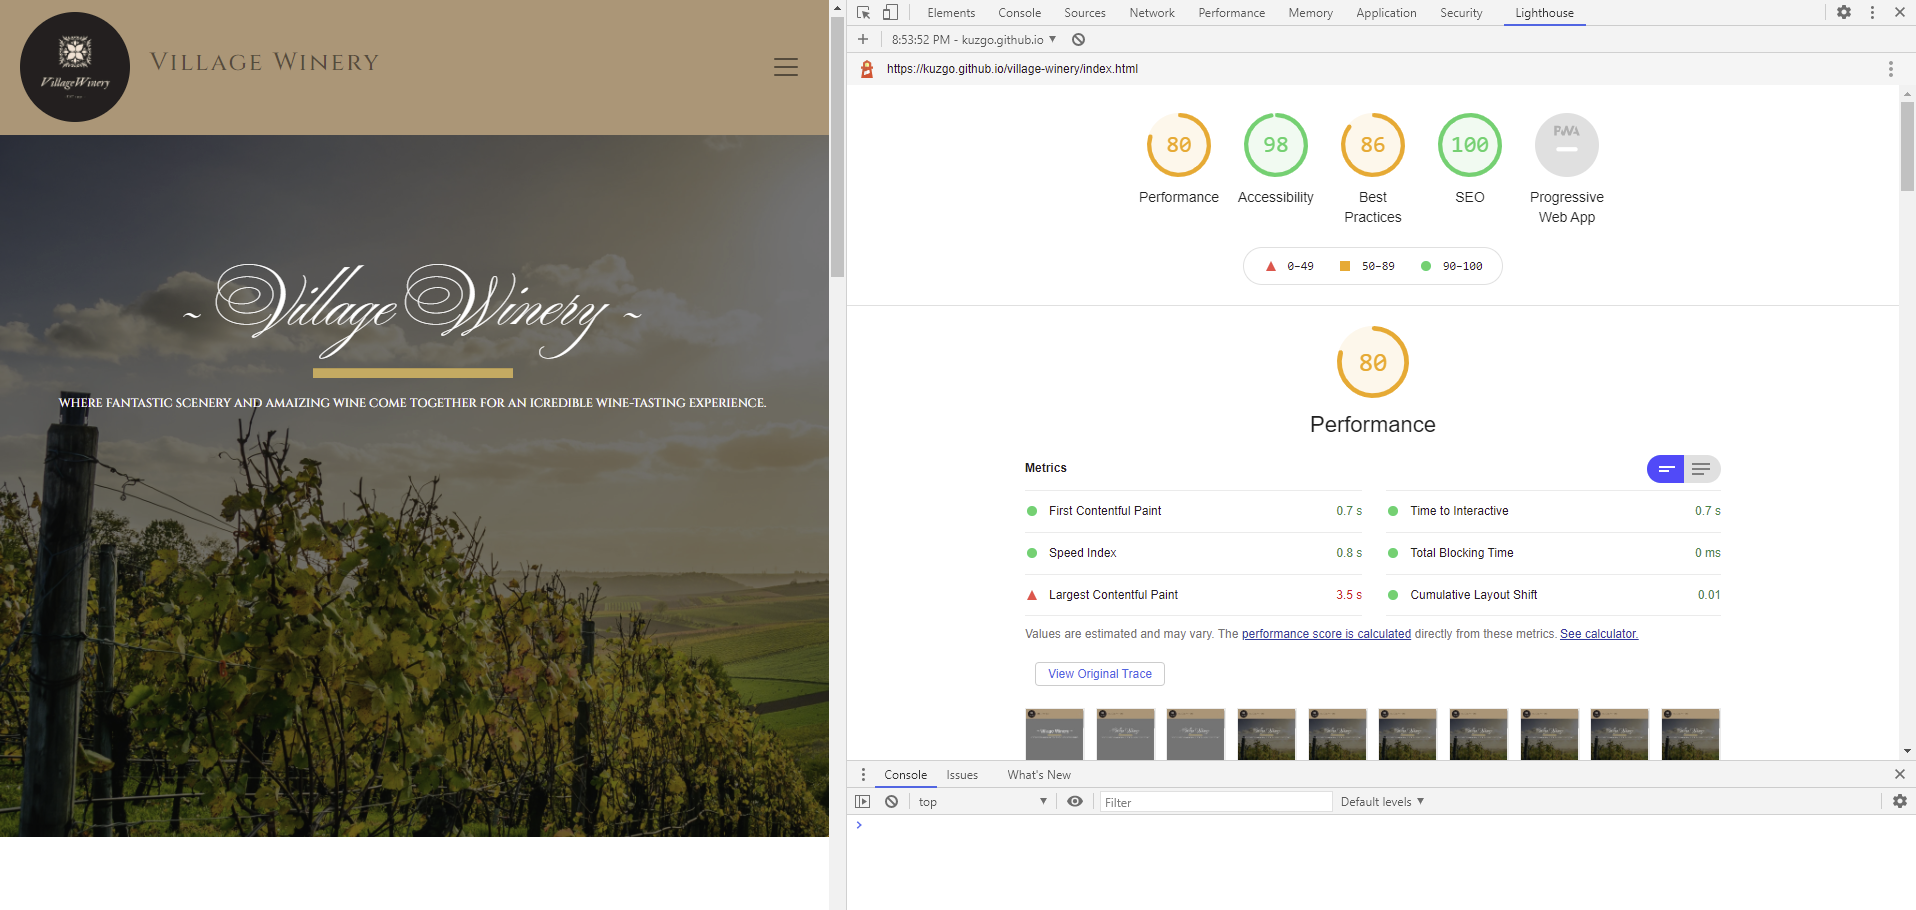
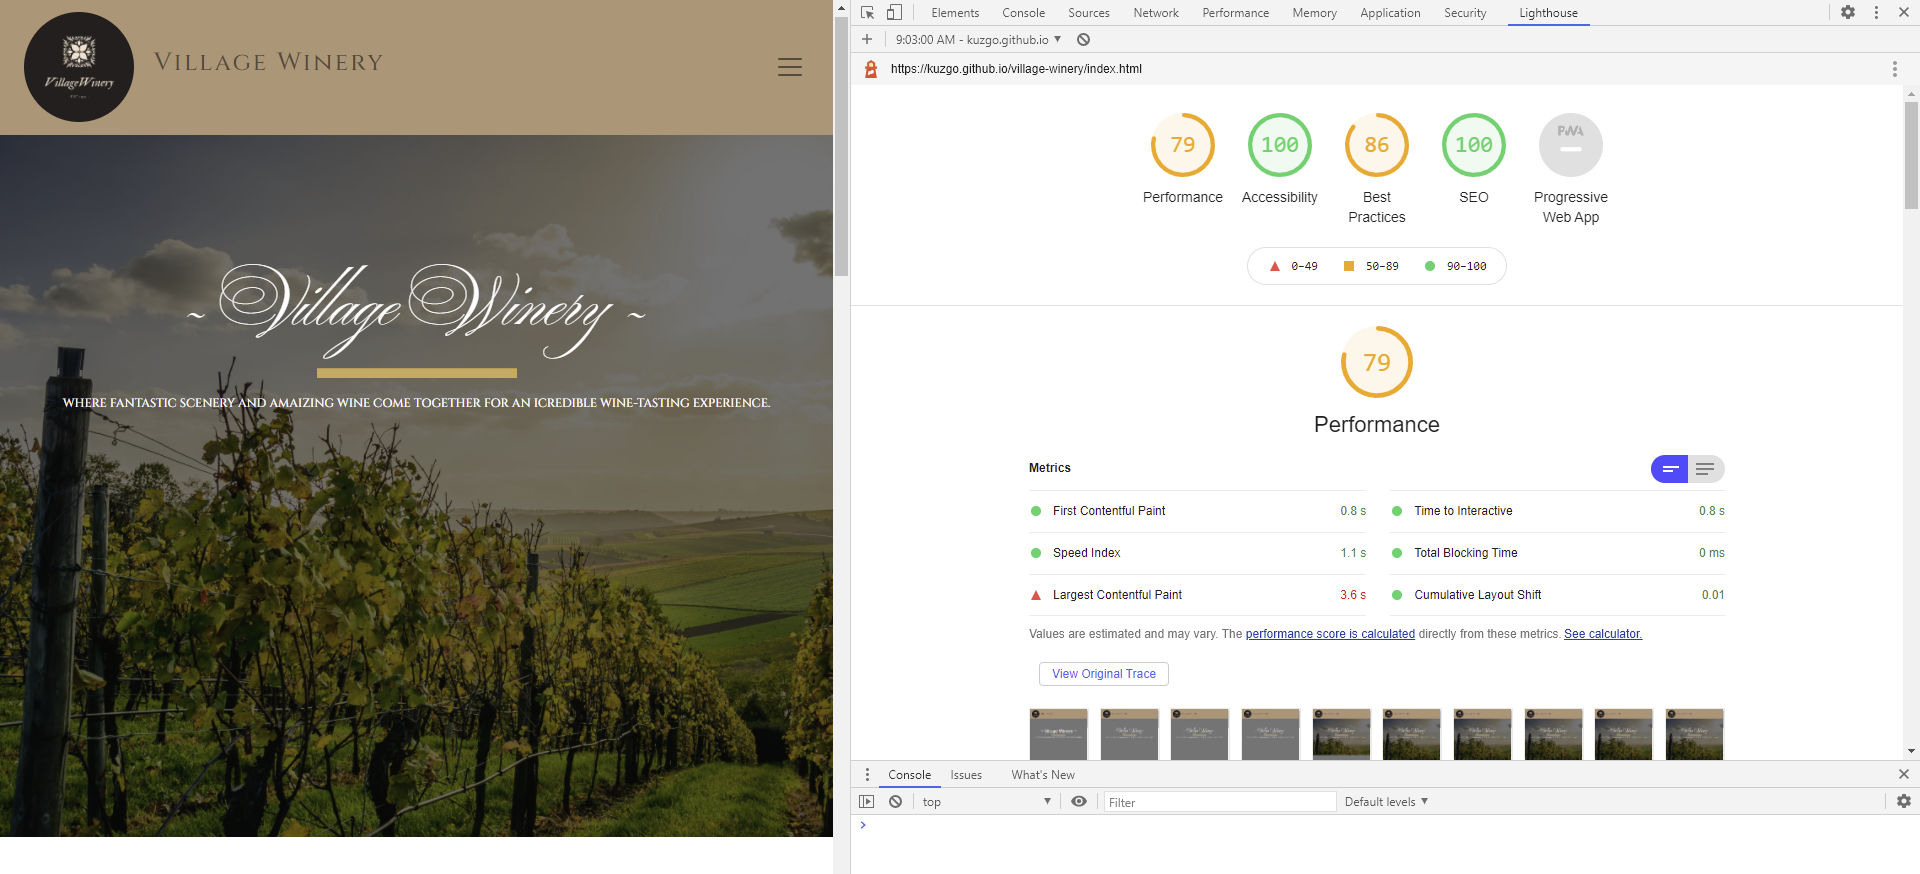
Final fixes and add TESTING.md
* Add separate TESTING.md to comply with project's requirements

* Implement TESTING.md and add more content

diff --git a/assets/css/style.css b/assets/css/style.css
@@ -1,12 +1,20 @@
 :root {
     --nav-link--color: #040101;
+    --nav-link--text-color:#f9f8f5;
+    --nav-link--border-color:#d2a659;
+    --navbar-active-color:rgba(0,0,0,0.3);
+    --hero-container-color:rgba(11, 11, 11, 0.57);
     --summer-house-border-color:#333030;
     --navbar-toggler--backround--color:#b59474;
     --story-section--backround--color:#f9f8f5;
     --navbar-toggler-icon--color:#333030;
     --reviews-section--background-color:#d2a659;
     --icon--color:#332F36;
+    --media-links--color:#b59474;
+    --wine-buttons--color:#343a40;
+    --form-contorl--color:rgba(20, 19, 19, 0.7);
     --hero-header-color: #fff;
+    --red-heart--color: red;
 }
 
 body {
@@ -35,20 +43,20 @@ body {
 
 .navbar-light .navbar-nav .nav-link:hover,
 .navbar-light .navbar-nav .nav-link:focus {
-    color: #f9f8f5;
-    border: #d2a659;
+    color: var(--nav-link--text-color);
+    border: var(--nav-link--border-color);
     border-style: solid;
     border-radius: 5px;
 }
 .navbar-light .navbar-nav .nav-link:active {
-    color: #f9f8f5;
-    border: #d2a659;
+    color: var(--nav-link--text-color);
+    border: var(--nav-link--border-color);
     border-style: solid;
     border-radius: 5px;
-    background-color: rgba(0,0,0,0.3);
+    background-color: var(--navbar-active-color);
 }
 .navbar-light .navbar-nav .nav-link.active {
-    background-color:rgba(0,0,0,0.3);
+    background-color: var(--navbar-active-color);
 }
 .container-fluid { 
     overflow: hidden;
@@ -80,7 +88,7 @@ body {
     background-color: var(--navbar-toggler--backround--color);
 }
 a.nav-link.current-page {
-    text-decoration: underline 5px solid #d2a659;
+    text-decoration: underline 5px solid var(--nav-link--border-color);
 }
 
 /* -------------------------------------  Hero Image*/
@@ -102,7 +110,7 @@ a.nav-link.current-page {
     background-color: var(--reviews-section--background-color);
 }
 .hero-container {
-    background-color:rgba(11, 11, 11, 0.57);
+    background-color: var(--hero-container-color);
     height: 90vh;
     display: block;
     position: relative;
@@ -143,7 +151,7 @@ h5 {
     font-size: 18px;
     font-family: "Lato",sans-serif;
     text-align: center;
-    color: #333030;
+    color: var(--summer-house-border-color);
     white-space: normal;
     margin-left: 25px;
     margin-right: 25px;
@@ -164,10 +172,10 @@ h5 {
     padding: 40px 30px;
 }
 .story-link {
-    color: #332F36;
+    color: var(--icon--color);
 }
 a:hover {
-    color: #332F36;
+    color: var(--icon--color);
 }
 /* -------------------------------------  Reviews section */
 .reviews-section {
@@ -229,7 +237,7 @@ a:hover {
     bottom: 20px;
     left:20%;
     border-radius: 23px;
-    background-color: #343a40;
+    background-color: var(--wine-buttons--color);
     color: var(--story-section--backround--color);
     border: solid transparent;
 }
@@ -238,7 +246,7 @@ a:hover {
 .btn-outline-secondary:focus,
 .btn-outline-secondary:active {
     color: var(--story-section--backround--color);
-    border: #d2a659;
+    border: var(--nav-link--border-color);
     border-style: solid;
     border-radius: 23px;
 }
@@ -263,7 +271,7 @@ a:hover {
     text-align: center;
 }
 .form-control {
-    background-color:rgba(20, 19, 19, 0.7);
+    background-color: var(--form-contorl--color);
     color: var(--story-section--backround--color);
 }
 .contact-label {
@@ -285,7 +293,7 @@ a:hover {
     height: 9px;
 }
 .form-cover {
-    background-color: rgba(0,0,0,0.3);
+    background-color: var(--navbar-active-color);
     width: 100%;
     height: 100%;
 }
@@ -296,8 +304,8 @@ a:hover {
 }
 
 .btn-dark:hover {
-    color: #f9f8f5;
-    border: #d2a659;
+    color: var(--nav-link--text-color);
+    border: var(--nav-link--border-color);
     border-style: solid;
     border-radius: 5px;
     text-decoration: none;
@@ -321,8 +329,8 @@ a:hover {
     animation-duration: 1s;
     animation-fill-mode: forwards;
     overflow: hidden;
-    
 }
+/* Inspiration for this code I received from the Code institute project Love Running */
 @keyframes zoom-image {
     from { transform: scale(1);
 
@@ -353,17 +361,17 @@ a:hover {
  
  /* --------------------------------------------------Footer */
 footer {
-    background-color: #332F36;
-    color:#f9f8f5;
+    background-color: var(--icon--color);
+    color: var(--nav-link--text-color);
     text-align: center; 
 }
 .media-links .list-inline-item a {
-    color: #b59474;
+    color: var(--media-links--color);
     text-decoration: none;
 }
 .media-links .list-inline-item a:hover {
-    color: #f9f8f5;
-    border: #d2a659;
+    color: var(--nav-link--text-color);
+    border: var(--nav-link--border-color);
     width: 15px;
     height: 15px;
     text-decoration: none;
@@ -378,11 +386,11 @@ footer {
     margin: 0 20px;
 }
 .heart-red:hover{
-    color: red;
-    text-shadow: 0 0 15px red;
+    color: var(--red-heart--color);
+    text-shadow: 0 0 15px var(--red-heart--color);
 }
-/* This code removes margin between social media icons and
-makes summer house image smaller- issue with Galaxy Fold or simillar*/
+/* These codes remove margin between social media icons and
+makes summer house image smaller,decrease hero container padding - issue with Galaxy Fold or simillar*/
 @media screen and (max-width:280px) {
 .media-icon {
     width: 36px;

diff --git a/assets/TESTING.md b/assets/TESTING.md
@@ -1,0 +1,115 @@
+## Testing &  debugging:
+
+Pre-deployment testing:
+
+At the early stage of my project for testing the website I used Mozilla and Google Chrome DevTools to test responsiveness, accessibility and any potential bugs on different
+device models and screen sizes.
+The issues I encountered during different stages of my project are:
+1. Navbar text color contrast issue. While I personally liked more color used for text, to increase accessibility I decided to change color to #040101,
+which has contrast ratio 7.38, AA 4.5 ,AAA 7.0 making the website more accessible for diverse needs of users.
+
+2. Contact form would not display correctly in the landscape mode. As I had contact form wrapped with a `jumbotron`, which had a background image specified to cover 100vh.
+This pushed the contact form to the bottom making some parts of form invisible/covered by the footer. Removing 100vh fixed the issue.
+<p><img src="assets/docs/form.PNG" style="min-width:100%" height="400" alt="Form in landscape"></p>
+
+3. Order online buttons were not correctly positioned. After adding different paragraphs of text to wines.html section, it moved all buttons underneath the text to
+ different levels of the screen. To fix this issue I had to use position: absolute in CSS which displayed buttons as expected on large and medium screens but created an issue with small sizes 
+ screens. Additional fix was to add some bottom margin to paragraphs which provided some breathing space between buttons and text.
+4. In the `navbar`, the company title next to the company logo would not render properly with small screen sizes. As this would push navbar links to the right,
+   cutting off some of the links. I decided to hide the company title for small devices. At later stage of testing I noticed that this would not work in the landscape mode on some small 
+   size screens (Moto 4G) and refactored the code to hide title with small screen sizes and display as a block using Bootstrap's code .d-none .d-md-inline .d-xs-none,
+   this resolved the issue.
+5. One of the first Lighthouse reports was showing lower performance, best practices and SEO. Based on that report I refactored the code to add `meta` keywords and description to increase 
+   SEO and also `aria-*` attributes to make better user experience for users of screen readers and other assistive technologies.
+6. I conducted numerous tests of both HTML and  CSS code using [The W3C CSS Validation Service - Jigsaw](https://jigsaw.w3.org/css-validator/) and [The W3C Markup Validation Service validator](https://validator.w3.org/)
+   during various different stages of my project to ensure that codes are valid. Most of the times my reports were with a few minor errors and warnings which could have been easily fixed.
+
+    <p><img src="assets/docs/form.PNG" style="min-width:100%" height="400" alt="Form in landscape"></p>
+
+   The warnings displayed are due to Jigsaw's inability to validate/recognise certain CSS methods.
+
+    <p> <img src="assets/docs/css-warnings.PNG" style="min-width:100%" height="500" alt="CSS Warnings"></p>
+    <p> <img src="assets/docs/css-validator.PNG" style="min-width:100%" height="200" alt="CSS No error"></p>
+    
+    
+Post-deployment testing:
+
+
+1. One of the first issues encountered during testing of the deployed website was that images in the gallery and contact form hero image would not display at all.
+ Using Mozilla and Google DevTools I found that the error was in the absolute file path. 
+ After changing file paths to relative instead of absolute all images in question were rendered as expected. 
+
+2. The entire image gallery would display photographs slightly moved to the right side of the screen.This issue was resolved by adding margin shorthand to the .gallery-image class.
+
+3. The website has been tested for responsiveness using [Am I Responsive](http://ami.responsivedesign.is/).
+ 
+4. One of the post-deployment issues brought to my attention was that once hovered over the navigation bar and buttons it would push the other content due to the border appearing around links and buttons. 
+ To fix this I researched Google and came across a solution on [Stackoverflow](https://stackoverflow.com/questions/18887058/css-hover-creating-border-but-pushing-content).
+5. Lighthouse reports ran for both mobile and desktops:
+
+Lighthouse mobile devices report:
+
+<p> <img src="assets/docs/lighthouse-mobile.PNG" style="min-width:100%" height="400" alt="Lighthouse mobile device report"></p>
+
+Lighthouse desktop devices report:
+
+<p> <img src="assets/docs/lighthouse-desktop.PNG" style="min-width:100%" height="400" alt="Lighthouse desktop device report"></p>
+
+6. Deployed website has been tested across many different devices where a few errors have been found and corrected. 
+
+    * Our Wines page misalignment has been fixed by making images more responsive and correcting `margin` and `padding`.
+    * Home page's hero image did not have any information for users once they landed on the home page. To increase UX I have added an inviting company title with a small paragraph of text 
+        explaining to potential clients what is the business of the website owner.
+    * Contact form did not have an address and contact details such as email address and phone number.This has been added along with the location map.
+    * Contact form button contrast corrected by changing the button color.
+
+## User stories testing:
+
+ * User 1 : As a wine lover I want to find a place where I can taste quality wine.
+    * While browsing the internet in search of places producing quality wines I found Village Winery.
+    I was able to see their products, previous customers reviews and photographs of the winery.
+    I decided to contact the owner and book a wine-tasting tour.
+
+* User 2 : As a user I want to be able to contact the owner and book a tour.
+    * I was able to easily navigate through the website and find contact details.
+    As the location of the winery was interesting to me I contacted the owner using the contact form provided on the website to book a tour.
+
+* User 3 : As a wine collectionner I want to be able to order a bottle of wine from different parts of the world.
+    * I was able to review the products and their descriptions. 
+    In my collection I missed a bottle of wine from the country of Village Winery's origin so I decided to order a bottle of wine online using the option provided on their website.
+
+* User 4 : As a user I want to navigate the site easily to find products and services.
+    * I was able to navigate through the entire website easily and use the navigation bar to bring me to the different website pages.
+     Every time I wanted to go back to the home page I could click the company logo which will bring me back there. 
+     I checked the company's social media platforms to get a better understanding of their business.
+
+* User 5 : As a business owner I want to easily contact potential wine suppliers.
+    * As a business owner I own a restaurant and was in search of the best quality wine suppliers. I reviewed the Village Winery website and their wine, their tradition and the way they produce quality wines.
+     I have decided to contact the owner for further cooperation. I followed them on their social media sites to keep track of any updates.
+
+## Functionality testing
+
+As part of functionality testing the developer tested every part of the website to ensure that everything is working properly on different types of devices and screen sizes: 
+### Navigation bar:
+1. Once hovered over navigation bar links,the border will appear and the text will change color around the Home, Our Wines, Gallery and Contact Us links.
+2. When the page is selected it would be clearly indicated to the user by underlining the currently visited page. 
+3. Once clicked on the company logo regardless of the current user's location on the website it would bring the user back to the home page.
+### Google Map:
+1. Location of the winery is shown to the users and will always display the full width of the screen. 
+2. If the user would need to view the larger map it will be open in a separate tab.
+### Social media links:
+1. Hovering over social media links would change the color of the icons. 
+2. Clicking on the social media icon will open the social media page in a separate browser tab.
+### Our Wines:
+1. The images of the products are displayed without any background to create a blending effect. 
+2. The price of each product is highlighted with a different colour. Order online buttons have a shopping basket icon added to indicate product purchase. 
+3. Hover over the buttons would change the buttons background colour and will add border to follow consistency of the website.
+### Gallery:
+1. All images are displayed in various sizes with a shadow behind each image .
+2. Along with the hover effect when the image is slightly zoomed in, the idea was to create the floating image effect.   
+### Contact us :
+1. Send button hover effect will change the background colour and will add border to follow consistency of the website.
+2. Clicking the Send button  without adding the user's __Email__ address will display a warning sign advising users it is required to fill before hitting the button. 
+3. Clicking the Send button  without adding the user's __Name__ will display a warning sign advising users it is required to fill before hitting the button. 
+4. Email and telephone icons would not be visible on small screen devices such as mobile phones.
+5. Google map would work as per previous test.

diff --git a/README.md b/README.md
@@ -68,15 +68,17 @@ create a positive user experiences.
 <p> <img src="assets/docs/colors.PNG" style="min-width:100%" height="200" alt="Color scheme"></p>
 
 * Typography
-    * The website fonts used are Google fonts Cinzel for headers and Lato for the text paragraphs and also Lato for contact form.
+    * The website fonts used are Google fonts Cinzel for headers and Lato for the text paragraphs and also Lato for contact form. Google font's Ballet font was used only for creation of
+    a Village Winery header on a landing page.
 
 ### Features Left to Implement
 * Feature which will still need to be implemented is ability to make an online payment. 
   This is planned to be implemented at later stage of the course completion when I gain knowledge of how to achieve that.
 * Linking contact form to corporate email address. This will be implemented in case this website is used for existing business 
   as currently it is only designed and developed for educational purpose.  
-* Option to read the website connect in various different languages such as Spanish,Italian,German which will increase potential clients and 
-  make the webste more accessible to non-english speaking regions.
+* Option to read the website content in various different languages such as Spanish, Italian, German which will increase potential clients and 
+  make the webste more accessible to non-English speaking regions.
+* Ability to submit client's review after visiting winery or tasting the wine.
 
 ## Technologies Used 
 
@@ -104,7 +106,7 @@ create a positive user experiences.
 * [__W3C Markup Validator__](https://validator.w3.org/) Used to test HTML code validation.
 * [__W3C CSS Validatior - Jigsaw__](https://jigsaw.w3.org/css-validator/) Used to test CSS code validation.
 * [__Am I Responsive__](http://ami.responsivedesign.is/) used during post deployment testing stage.
-* [Pixlr](https://pixlr.com) used to remove background and editing photographs.
+* [__Pixlr__](https://pixlr.com) used to remove background and editing photographs.
 
 
 
@@ -113,51 +115,11 @@ create a positive user experiences.
 To see Project Wireframes please click the link: <a href="https://github.com/kuzGo/village-winery/tree/master/assets/wireframe">Wireframes</a> 
 
 
-## Testing &  debugging:
+## Testing :
 
+To see testing of the website please click the link to see in a separate file:
 
-Pre-deployment testing:
-
-At the early stage of my project for testing the website I used Mozilla and Google Chrome DevTools to test responsiveness, accessibility and any potential bugs on different
-device models and screen sizes.
-The issues I encountered during different stages of my project are:
-1. Navbar text color contrast issue. While I personally liked more color used for text, to increase accessibility I decided to change color to #040101,
-which has contrast ratio 7.38, AA 4.5 ,AAA 7.0 making the website more accessible for diverse needs of users.
-
-2. Contact form would not display correctly in the landscape mode. As I had contact form wrapped with a `jumbotron`, which had a background image specified to cover 100vh.
-This pushed the contact form to the bottom making some parts of form invisible/covered by the footer. Removing 100vh fixed the issue.
-<p> <img src="assets/docs/form.PNG" style="min-width:100%" height="400" alt="Form in landscape"></p>
-
-3. Order online buttons were not correctly positioned. After adding different paragraphs of text to wines.html section, it moved all buttons underneath the text to
- different levels of the screen. To fix this issue I had to use position: absolute in CSS which displayed buttons as expected on large and medium screens but created an issue with small sizes 
- screens. Additional fix was to add some bottom margin to paragraphs which provided some breathing space between buttons and text.
-4. In the `navbar`, the company title next to the company logo would not render properly with small screen sizes. As this would push navbar links to the right,
-   cutting off some of the links. I decided to hide the company title for small devices. At later stage of testing I noticed that this would not work in the landscape mode on some small 
-   size screens (Moto 4G) and refactored the code to hide title with small screen sizes and display as a block using Bootstrap's amazing ability code .d-none .d-md-inline .d-xs-none,
-   this resolved the issue.
-5. One of the first Lighthouse reports was showing lower performance, best practices and SEO. Based on that report I refactored the code to add `meta` keywords and description to increase 
-   SEO and also `aria-*` attributes to make better user experience for users of screen readers and other assistive technologies.
-6. I conducted numerous tests of both HTML and  CSS code using [The W3C CSS Validation Service - Jigsaw](https://jigsaw.w3.org/css-validator/) and [The W3C Markup Validation Service validator](https://validator.w3.org/)
-   during various different stages of my project to ensure that codes are valid. Most of the times my reports were with a few minor errors and warnings which could have been easily fixed.
-    <p> <img src="assets/docs/html-error.PNG" style="min-width:100%" height="200" alt="Form in landscape"></p>
-    <p> <img src="assets/docs/css-warnings.PNG" style="min-width:100%" height="500" alt="Form in landscape"></p>
-    <p> <img src="assets/docs/css-validator.PNG" style="min-width:100%" height="200" alt="Form in landscape"></p>
-    
-    
-Post-deployment testing:
-
-
-1. One of the first issues encountered during testing of the deployed website was that images in the gallery and contact form hero image would not display at all.
- Using Mozilla and Google DevTools I found that the error was in the absolute file path. 
- After changing file paths to relative instead of absolute all images in question were rendered as expected. 
-
-2. The entire image gallery would display photographs slightly moved to the right side of the screen.This issue was resolved by adding margin shorthand to the .gallery-image class.
-
-3. The website has been tested for responsiveness using [Am I Responsive](http://ami.responsivedesign.is/).
- 
-4. One of the post-deployment issues brought to my attention was that once hovered over the navigation bar and buttons it would push the other content due to border appearing around links and buttons. 
- To fix this I researched Google and came across a solution on [Stackoverflow](https://stackoverflow.com/questions/18887058/css-hover-creating-border-but-pushing-content).
-5. Lighthouse reports ran for both mobile and desktops.
+<a href="https://github.com/kuzGo/village-winery/tree/master/assets/wireframe">Wireframes</a>
 
 ## Deployment
 
@@ -222,7 +184,7 @@ To clone a repository and work locally on it follow the next steps :
 
     * Embedded `iframe` html code copied from Google maps and added to the existing html code. It has been adjusted to fit project's needs.
 
-* Nishant Kumar, my mentor who taught me how to create `root:` and use variables to easily adjust/change colours in CSS. 
+* Nishant Kumar, my mentor suggested me to create `root:` and use variables to easily adjust/change colours in CSS. 
 
 #### Content
 * The text used to describe different types of wine used for the project has been copied form  [Dublin Fine Wines](dublinfinewines.ie)
@@ -232,4 +194,4 @@ To clone a repository and work locally on it follow the next steps :
 ***
 * I would like to thank my mentor Nishant Kumar for all the support and pieces of advice during  mentoring sessions and sharing his knowledge with me.
 * Great support and motivation came from the CI Slack community and Code Institute tutors.
-* Thanks to the Code Institute for all inspirations and ideas whilst learning and working on the previous different projects. 
+* Thanks to the Code Institute for all inspirations and ideas whilst learning and working on the previous different projects Love Running, Whiskey Drop. 
